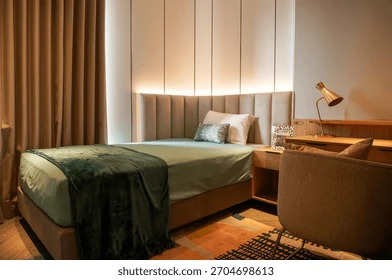
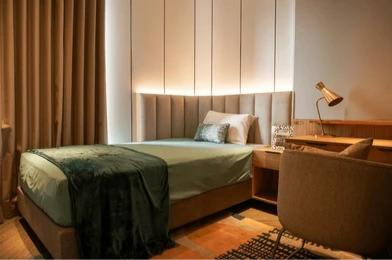
update files

diff --git a/src/main/resources/templates/admin-dashboard.html b/src/main/resources/templates/admin-dashboard.html
@@ -193,7 +193,7 @@ body{
 
 .stats{
     display:grid;
-    grid-template-columns:repeat(4,1fr);
+    grid-template-columns:repeat(auto-fit,minmax(220px,1fr));
     gap:18px;
 
     margin-bottom:35px;
@@ -299,6 +299,20 @@ tr:last-child td{
     background:rgba(255,0,0,0.12);
     color:#ff6363;
 }
+.search-box{
+    margin-bottom:20px;
+}
+
+.search-box input{
+    width:min(320px,100%);
+    padding:12px 16px;
+
+    background:#1b1b2a;
+    border:1px solid rgba(255,255,255,0.08);
+
+    border-radius:10px;
+    color:white;
+}
 
 /* BUTTONS */
 
@@ -339,7 +353,7 @@ tr:last-child td{
     color:white;
 
     border:1px solid rgba(255,255,255,0.08);
-
+	cursor:pointer;
     padding:8px 10px;
     border-radius:8px;
 }
@@ -393,7 +407,18 @@ tr:last-child td{
     margin:3px;
 }
 
-/* RESPONSIVE */
+.stat-card,
+.room-card,
+.table-box{
+    transition:0.25s;
+}
+
+.stat-card:hover,
+.room-card:hover,
+.table-box:hover{
+    transform:translateY(-4px);
+    box-shadow:0 14px 30px rgba(0,0,0,0.25);
+}
 
 @media(max-width:1100px){
 
@@ -534,8 +559,19 @@ tr:last-child td{
 
             <p>Confirmed only</p>
         </div>
+<div class="stat-card">
+
+    <h4>AVAILABLE ROOMS</h4>
+
+    <h2 class="green">
+        <span th:text="${availableRooms}"></span>
+    </h2>
+
+    <p>Ready for booking</p>
 
     </div>
+    </div>
+
 
     <div class="table-box">
 
@@ -547,12 +583,12 @@ tr:last-child td{
 
             <thead>
                 <tr>
-                    <th>GUEST</th>
-                    <th>ROOM</th>
-                    <th>CHECK-IN</th>
-                    <th>CHECK-OUT</th>
-                    <th>STATUS</th>
-                </tr>
+                <th>GUEST</th>
+				<th>ROOM</th>
+				<th>CHECK-IN</th>
+				<th>CHECK-OUT</th>
+				<th>STATUS</th>                  
+				</tr>
             </thead>
 
             <tbody>
@@ -584,21 +620,29 @@ tr:last-child td{
 
     <h1 class="page-title">Reservations</h1>
     <p class="page-sub">Manage all guest bookings</p>
-
+    <div class="search-box">
+    <input type="text"
+           id="reservationSearch"
+           placeholder="Search guest, room, or status..."
+           onkeyup="searchReservations()">
+</div>
     <div class="table-box">
 
         <table>
 
             <thead>
                 <tr>
-                    <th>#</th>
-                    <th>GUEST</th>
-                    <th>ROOM</th>
-                    <th>CHECK-IN</th>
-                    <th>CHECK-OUT</th>
-                    <th>TOTAL</th>
-                    <th>STATUS</th>
-                    <th>ACTIONS</th>
+            <th>#</th>
+			<th>GUEST</th>
+			<th>ROOM</th>
+			<th>ROOM NO.</th>
+			<th>GUESTS</th>
+			<th>CHECK-IN</th>
+			<th>CHECK-OUT</th>
+			<th>TOTAL</th>
+			<th>STATUS</th>
+			<th>ACTIONS</th>
+
                 </tr>
             </thead>
 
@@ -611,7 +655,9 @@ tr:last-child td{
                     <td th:text="${booking.fullName}"></td>
 
                     <td th:text="${booking.roomType}"></td>
+                    <td>Not assigned</td>
 
+					<td th:text="${booking.guests}"></td>
                     <td th:text="${booking.checkInDate}"></td>
 
                     <td th:text="${booking.checkOutDate}"></td>
@@ -677,43 +723,47 @@ tr:last-child td{
 
                 <tr th:each="booking : ${successfulBookings}">
 
-                    <td th:text="${booking.id}"></td>
+    <td th:text="${booking.id}"></td>
 
-                    <td th:text="${booking.fullName}"></td>
+    <td th:text="${booking.fullName}"></td>
 
-                    <td th:text="${booking.roomType}"></td>
+    <td th:text="${booking.roomType}"></td>
 
-                    <td th:text="${booking.checkInDate}"></td>
+    <td th:text="${booking.roomNumber}"></td>
 
-                    <td th:text="${booking.checkOutDate}"></td>
+    <td th:text="${booking.guests}"></td>
 
-                    <td>
-                        ₱<span th:text="${booking.price}"></span>
-                    </td>
+    <td th:text="${booking.checkInDate}"></td>
 
-                    <td>
-                        <span class="status success">
-                            Confirmed
-                        </span>
-                    </td>
+    <td th:text="${booking.checkOutDate}"></td>
 
-                    <td>
+    <td>
+        ₱<span th:text="${booking.price}"></span>
+    </td>
 
-                        <form th:action="@{/checkout-booking}" method="post">
+    <td>
+        <span class="status success">
+            Confirmed
+        </span>
+    </td>
 
-                            <input type="hidden"
-                            name="bookingId"
-                            th:value="${booking.id}">
+    <td>
 
-                            <button class="btn btn-checkout">
-                                Check Out
-                            </button>
+        <form th:action="@{/checkout-booking}" method="post">
 
-                        </form>
+            <input type="hidden"
+                   name="bookingId"
+                   th:value="${booking.id}">
 
-                    </td>
+            <button class="btn btn-checkout">
+                Check Out
+            </button>
 
-                </tr>
+        </form>
+
+    </td>
+
+</tr>
 
             </tbody>
 
@@ -740,12 +790,14 @@ tr:last-child td{
 
                 <h3>Economy Room</h3>
 
-                <p>₱1,000/night · Up to 2 guests</p>
+                <p>₱3,500/night · Up to 2 guests</p>
 
                 <span class="tag">Free Wi-Fi</span>
                 <span class="tag">Air Conditioning</span>
                 <span class="tag">TV</span>
-
+                <span class="tag">Hot Shower</span>
+                <span class="tag">Fresh Towels</span>
+                <span class="tag">Complimentary Water</span>
             </div>
 
         </div>
@@ -758,11 +810,16 @@ tr:last-child td{
 
                 <h3>Normal Room</h3>
 
-                <p>₱2,500/night · Up to 4 guests</p>
-
+                <p>₱5,500/night · Up to 4 guests</p>
+                
+                <span class="tag">Free Wi-Fi</span>
+                <span class="tag">Air Conditioning</span>
                 <span class="tag">Smart TV</span>
                 <span class="tag">Mini Bar</span>
-
+                <span class="tag">Coffee Station</span>
+                <span class="tag">Daily Housekeeping</span>
+                <span class="tag">Room Service</span>
+                <span class="tag">Fresh Towels</span>
             </div>
 
         </div>
@@ -775,11 +832,18 @@ tr:last-child td{
 
                 <h3>VIP Suite</h3>
 
-                <p>₱5,000/night · Up to 4 guests</p>
+                <p>₱10,000/night · Up to 8 guests</p>
 
+                <span class="tag">Free Wi-Fi</span>
+                <span class="tag">Premium Smart TV</span>
+                <span class="tag">Private Bar</span>
                 <span class="tag">Jacuzzi</span>
-                <span class="tag">Panoramic View</span>
-
+                <span class="tag">Luxury Bathroom</span>
+                <span class="tag">Living Area</span>
+                <span class="tag">Coffee Machine</span>
+                <span class="tag">24/7 Butler Service</span>
+                <span class="tag">Private Balcony</span>
+                <span class="tag">Premium Toiletries</span>
             </div>
 
         </div>
@@ -792,7 +856,6 @@ tr:last-child td{
 
     <h1 class="page-title">Guest Feedback</h1>
     <p class="page-sub">Feedback submitted by registered users</p>
-
     <div class="table-box">
 
         <table>
@@ -878,7 +941,26 @@ function showPage(id, element){
 
     element.classList.add('active');
 }
+function searchReservations(){
 
+    let input =
+    document.getElementById("reservationSearch")
+    .value.toLowerCase();
+
+    let rows =
+    document.querySelectorAll("#reservations tbody tr");
+
+    rows.forEach(row=>{
+
+        let text =
+        row.innerText.toLowerCase();
+
+        row.style.display =
+        text.includes(input)
+        ? ""
+        : "none";
+    });
+}
 </script>
 
 </body>

diff --git a/src/main/java/com/hotel/AuthController.java b/src/main/java/com/hotel/AuthController.java
@@ -239,6 +239,7 @@ public class AuthController {
 	    model.addAttribute("cancelledBookings", cancelledBookings);
 	    model.addAttribute("users", users);
 	    model.addAttribute("feedbackList", feedbackList);
+	    model.addAttribute("availableRooms", 30);
 	    return "admin-dashboard";
 	}
 	@GetMapping("/admin-login")
